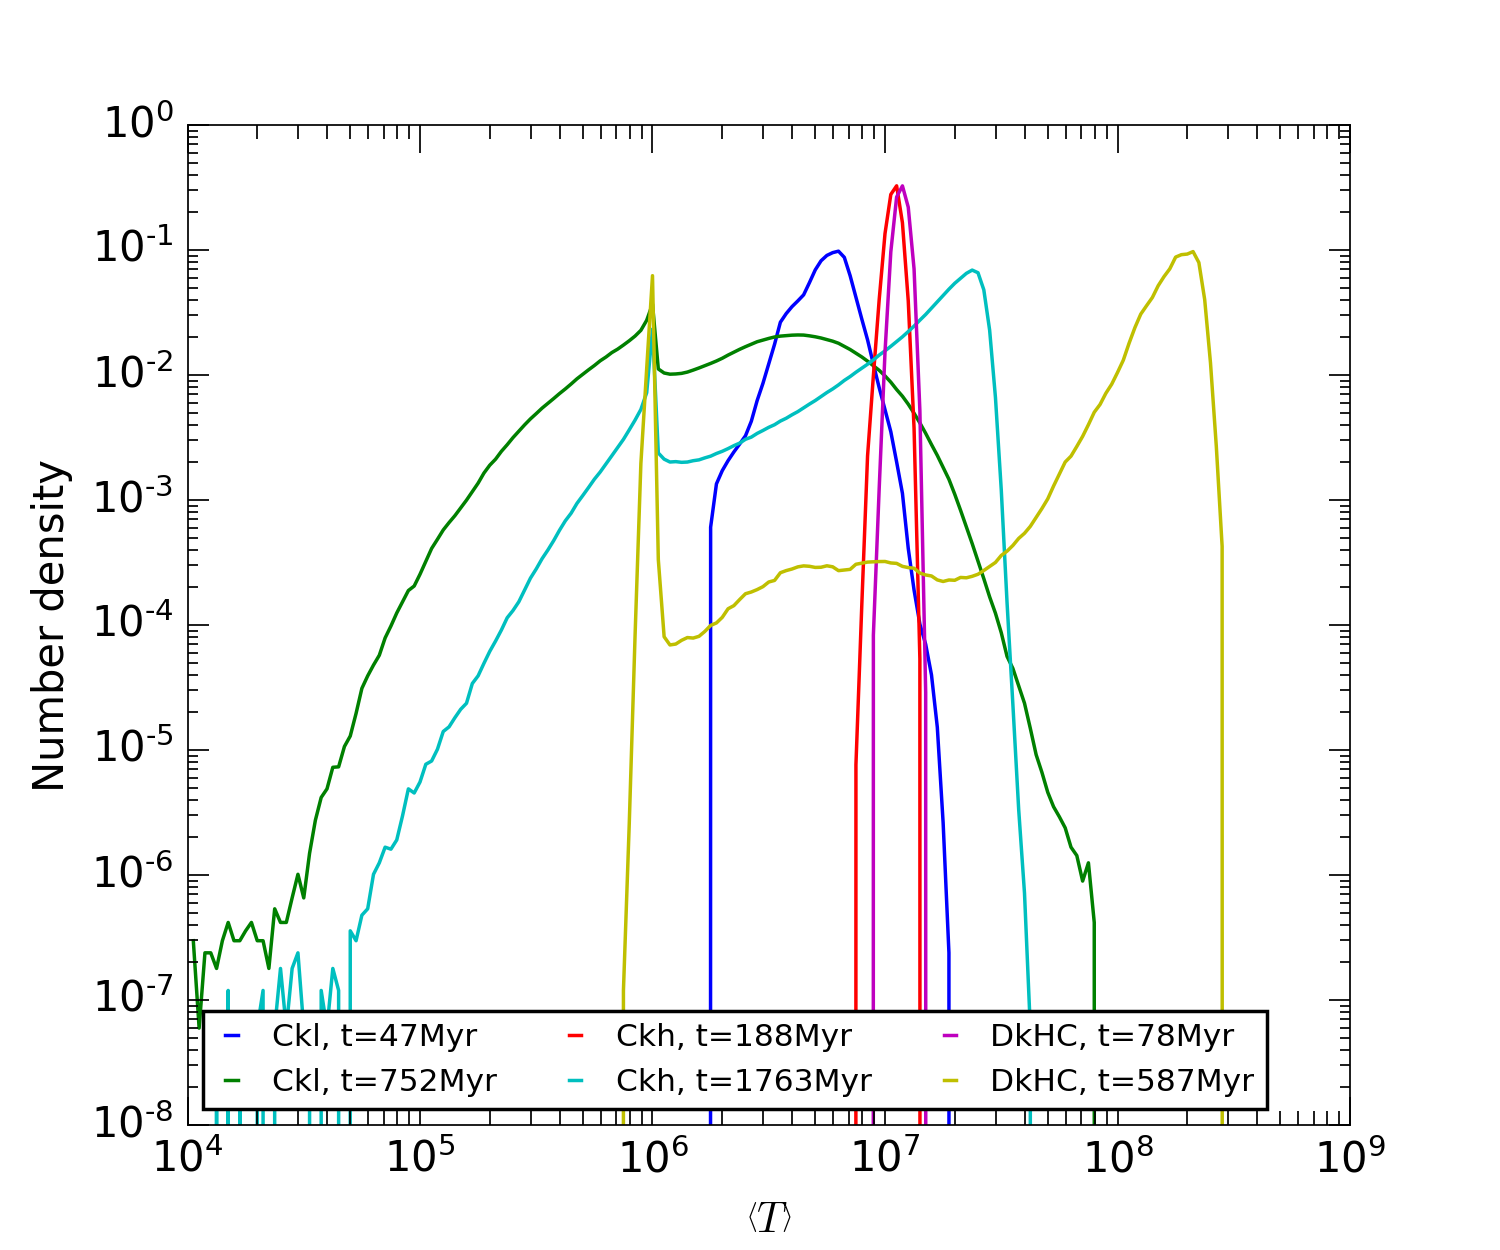
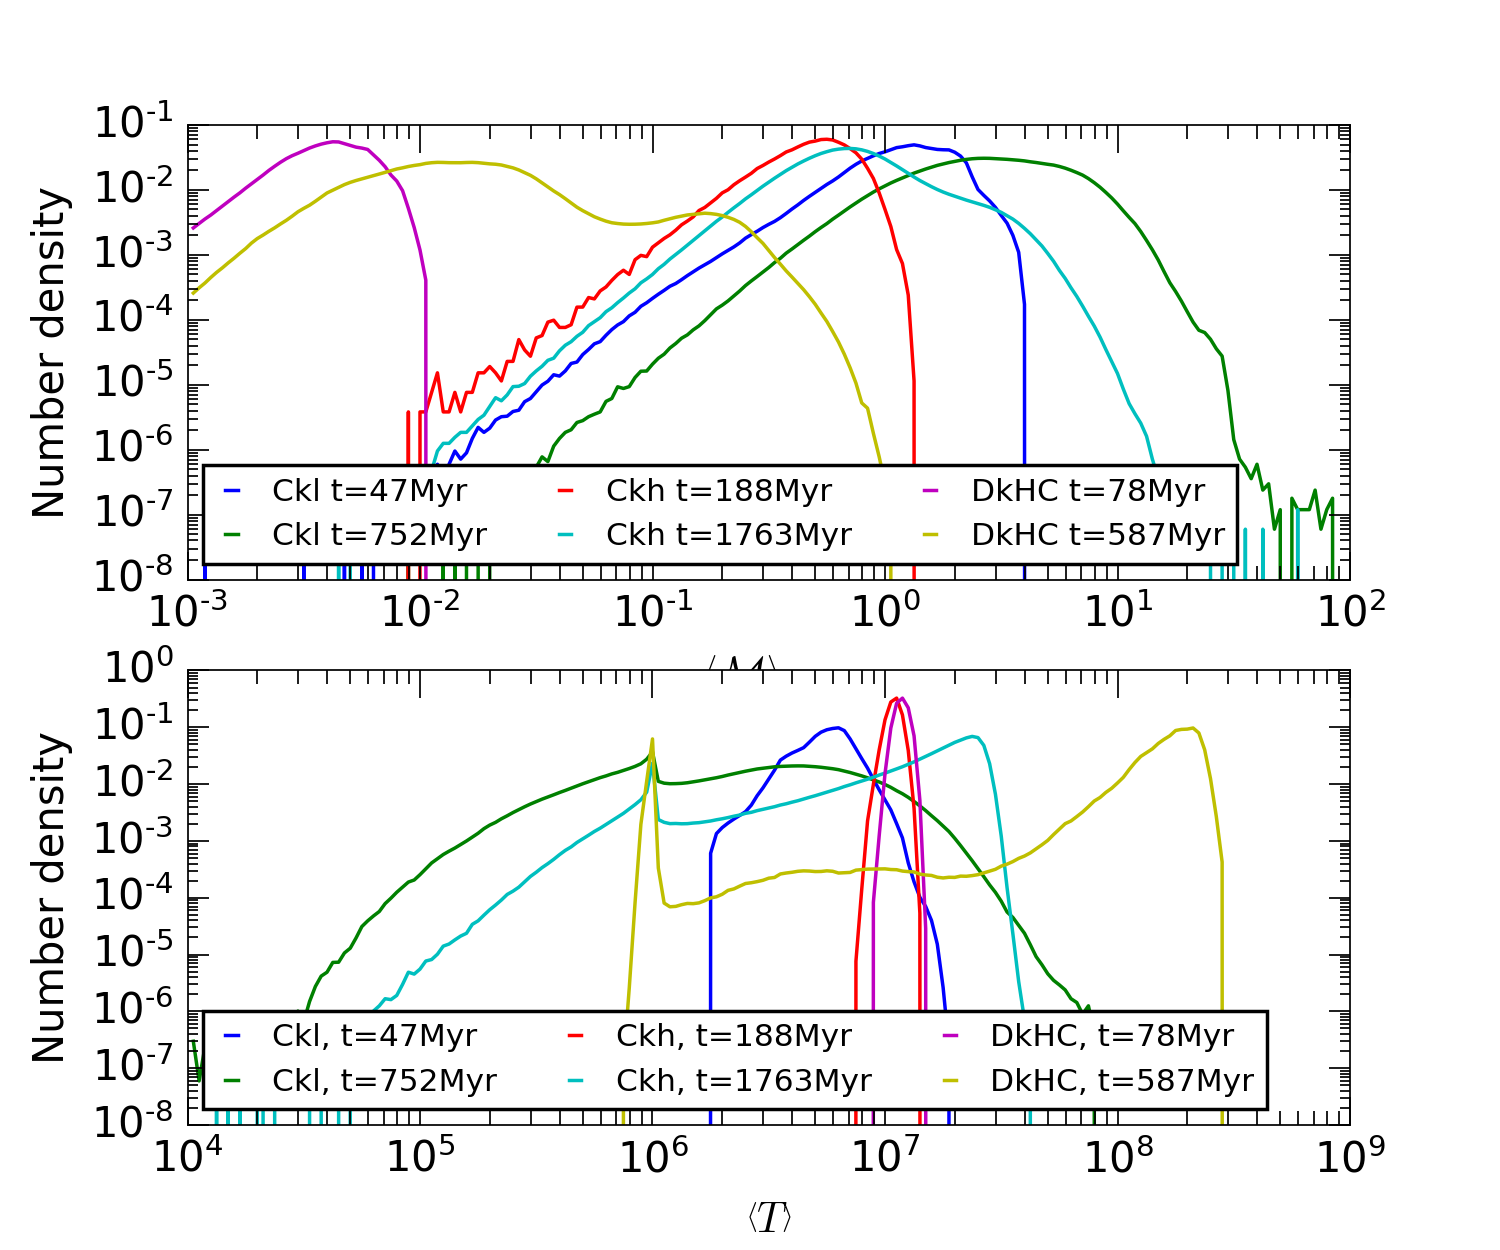
Added a double plot

diff --git a/mach_temp_dist/mach-temp-dist.py b/mach_temp_dist/mach-temp-dist.py
@@ -35,51 +35,48 @@ t_mp=(19.2, 45, 15)
 t_turb=(1.2, 4.8, 2)
 step_size=(0.2, 0.2, 0.2)
 
-fig, ax = plt.subplots()
+#Initialise the figure
+fig, (ax1, ax2) = plt.subplots(2, 1)
 for i1 in xrange(0,no_files):
 	filedir='/mnt/lustre/ug4/ugrajs/cooling/'+wdir[i1]
 	file=filedir+'mach'+str(int(t_turb[i1]/step_size[i1]+0.1)).rjust(4,'0')+'.txt'
 	data = np.loadtxt(file, skiprows=1, usecols=(0,1))
-	ax.plot(data[:,0],data[:,1]/(float(nx*ny*nz)),label=labels[i1]+' t='+str(int(t_turb[i1]*UNIT_TIME))+'Myr')
+	ax1.plot(data[:,0],data[:,1]/(float(nx*ny*nz)),label=labels[i1]+' t='+str(int(t_turb[i1]*UNIT_TIME))+'Myr')
 	file=filedir+'mach'+str(int(t_mp[i1]/step_size[i1]+0.1)).rjust(4,'0')+'.txt'
 	data = np.loadtxt(file, skiprows=1, usecols=(0,1))
-	ax.plot(data[:,0],data[:,1]/(float(nx*ny*nz)),label=labels[i1]+' t='+str(int(t_mp[i1]*UNIT_TIME))+'Myr')
-fig.set_size_inches(6, 5)
-ax.set_xscale('log')
-ax.set_yscale('log')
-ax.set_xlabel(r'$\left<\mathcal{M}\right>_{rms}$')
-ax.set_ylabel(r'Number density')
-#ax.set_title(r'Number density vs $\left<\mathcal{M}\right>_{rms}$')
+	ax1.plot(data[:,0],data[:,1]/(float(nx*ny*nz)),label=labels[i1]+' t='+str(int(t_mp[i1]*UNIT_TIME))+'Myr')
+fig.set_size_inches(6, 7)
+ax1.set_xscale('log')
+ax1.set_yscale('log')
+ax1.set_xlabel(r'$\left<\mathcal{M}\right>_{rms}$')
+ax1.set_ylabel(r'Number density')
+#ax1.set_title(r'Number density vs $\left<\mathcal{M}\right>_{rms}$')
 # Shrink current axis by 20%
-box = ax.get_position()
-ax.set_position([box.x0, box.y0, box.width, box.height])
+box = ax1.get_position()
+ax1.set_position([box.x0, box.y0, box.width, box.height])
 # Put a legend to the bottom of the current axis
-ax.legend(loc='lower left', bbox_to_anchor=(0.0, 0.0), ncol=3)
+ax1.legend(loc='lower left', bbox_to_anchor=(0.0, 0.0), ncol=3)
 #plt.savefig('mach-dist.png',dpi=250)
-plt.savefig('mach-dist-extremes.png',dpi=250)
-plt.close()
 
-fig, ax = plt.subplots()
 for i1 in xrange(0,no_files):
 	filedir='/mnt/lustre/ug4/ugrajs/cooling/'+wdir[i1]
 	file=filedir+'temp'+str(int(t_turb[i1]/step_size[i1]+0.1)).rjust(4,'0')+'.txt'
 	data = np.loadtxt(file, skiprows=1, usecols=(0,1))
-	ax.plot(data[:,0],data[:,1]/(float(nx*ny*nz)),label=labels[i1]+', t='+str(int(t_turb[i1]*UNIT_TIME))+'Myr')
+	ax2.plot(data[:,0],data[:,1]/(float(nx*ny*nz)),label=labels[i1]+', t='+str(int(t_turb[i1]*UNIT_TIME))+'Myr')
 	file=filedir+'temp'+str(int(t_mp[i1]/step_size[i1]+0.1)).rjust(4,'0')+'.txt'
 	data = np.loadtxt(file, skiprows=1, usecols=(0,1))
-	ax.plot(data[:,0],data[:,1]/(float(nx*ny*nz)),label=labels[i1]+', t='+str(int(t_mp[i1]*UNIT_TIME))+'Myr')
-fig.set_size_inches(6, 5)
-ax.set_xscale('log')
-ax.set_yscale('log')
-ax.set_xlabel(r'$\left<T\right>$')
-ax.set_ylabel(r'Number density')
-#ax.set_title(r'Number density vs $\left<T\right>$')
+	ax2.plot(data[:,0],data[:,1]/(float(nx*ny*nz)),label=labels[i1]+', t='+str(int(t_mp[i1]*UNIT_TIME))+'Myr')
+ax2.set_xscale('log')
+ax2.set_yscale('log')
+ax2.set_xlabel(r'$\left<T\right>$')
+ax2.set_ylabel(r'Number density')
+#ax2.set_title(r'Number density vs $\left<T\right>$')
 # Shrink current axis by 20%
-box = ax.get_position()
-ax.set_position([box.x0, box.y0, box.width, box.height])
+box = ax2.get_position()
+ax2.set_position([box.x0, box.y0, box.width, box.height])
 # Put a legend to the bottom of the current axis
-ax.legend(loc='lower left', bbox_to_anchor=(0.0, 0.0), ncol=3)
+ax2.legend(loc='lower left', bbox_to_anchor=(0.0, 0.0), ncol=3)
 #plt.savefig('temp-dist.png',dpi=250)
-plt.savefig('temp-dist-extremes.png',dpi=250, mode="expand", borderaxespad=0.)
+plt.savefig('mach-temp-dist-extremes.png',dpi=250, mode="expand", borderaxespad=0.)
 plt.close()
 
